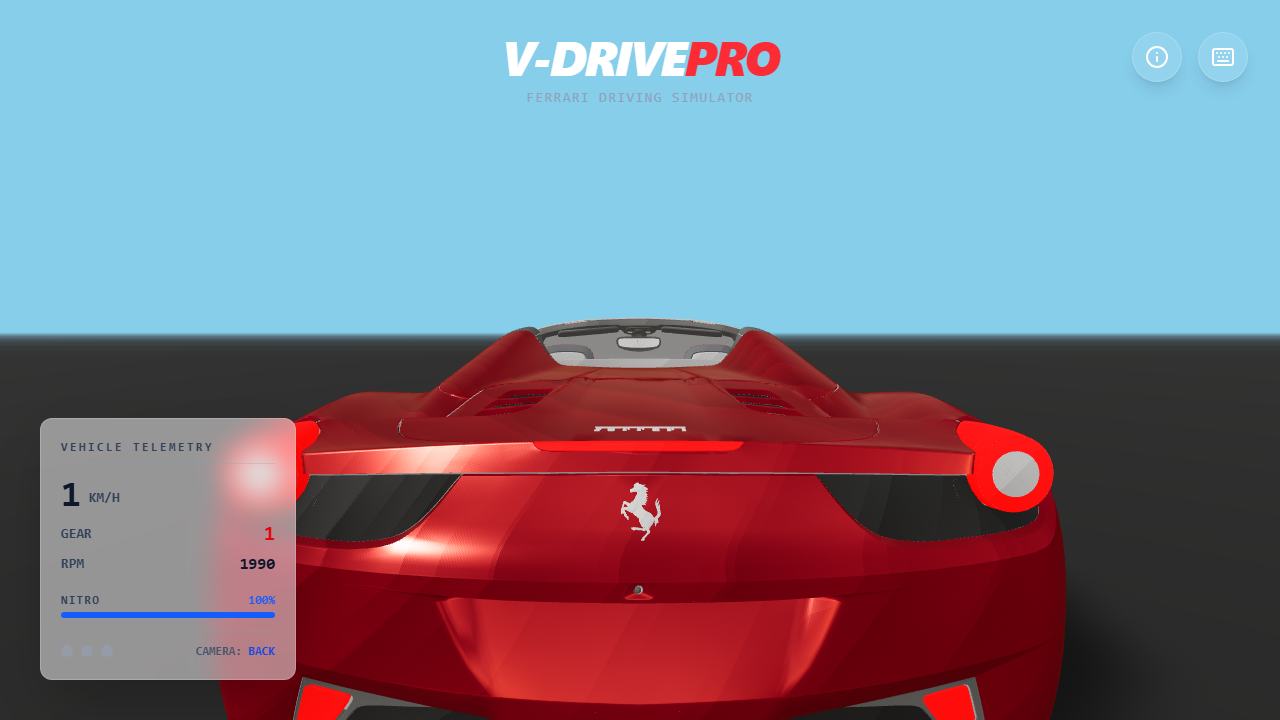
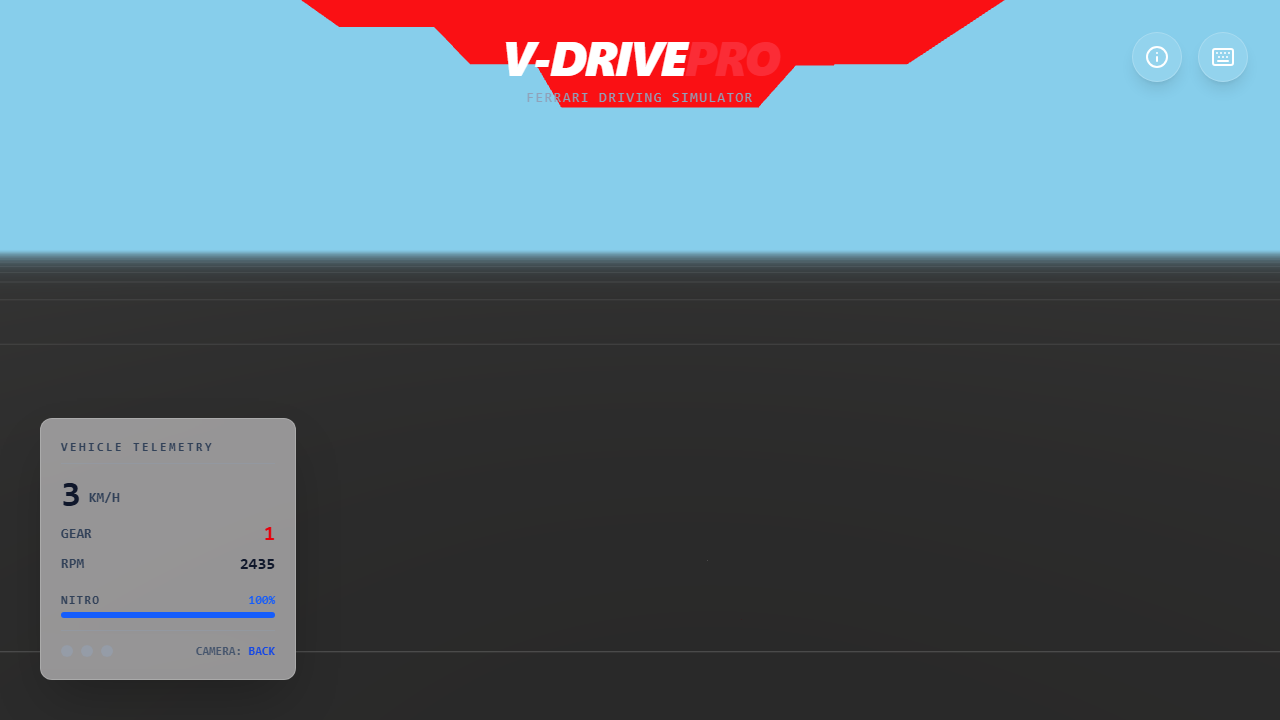
car simulator done

diff --git a/src/components/SmokeParticles.tsx b/src/components/SmokeParticles.tsx
@@ -89,12 +89,16 @@ export function SmokeParticles({ smokeState, carRef }: { smokeState: React.Mutab
         // Make the plane always face the camera
         dummy.rotation.x = -Math.PI / 2 // Or just keep it as a box or sphere for simplicity
         
-        dummy.scale.setScalar(p.scale)
+        // Fade out by shrinking size as life gets low
+        const lifeRatio = Math.max(0, p.life / p.maxLife)
+        const currentScale = p.scale * Math.pow(lifeRatio, 0.5) // shrink near the end
+        
+        dummy.scale.setScalar(currentScale)
         dummy.updateMatrix()
         meshRef.current!.setMatrixAt(i, dummy.matrix)
         
-        // Fade out color (Additive blending means black = invisible)
-        const intensity = Math.max(0, p.life / p.maxLife) * 0.3 // max 0.3 brightness
+        // Color is solid white, but we dim it slightly as it dies
+        const intensity = 0.5 + 0.5 * lifeRatio
         colorDummy.setRGB(intensity, intensity, intensity)
         meshRef.current!.setColorAt(i, colorDummy)
       } else {
@@ -111,11 +115,10 @@ export function SmokeParticles({ smokeState, carRef }: { smokeState: React.Mutab
     if (meshRef.current.instanceColor) meshRef.current.instanceColor.needsUpdate = true
   })
 
-  // We use a simple icosahedron or sphere to represent smoke puffs so they look volumetric
   return (
     <instancedMesh ref={meshRef} args={[undefined, undefined, MAX_PARTICLES]}>
       <icosahedronGeometry args={[1, 1]} />
-      <meshBasicMaterial color="white" transparent blending={THREE.AdditiveBlending} depthWrite={false} />
+      <meshBasicMaterial color="#e2e8f0" transparent opacity={0.6} depthWrite={false} />
     </instancedMesh>
   )
 }